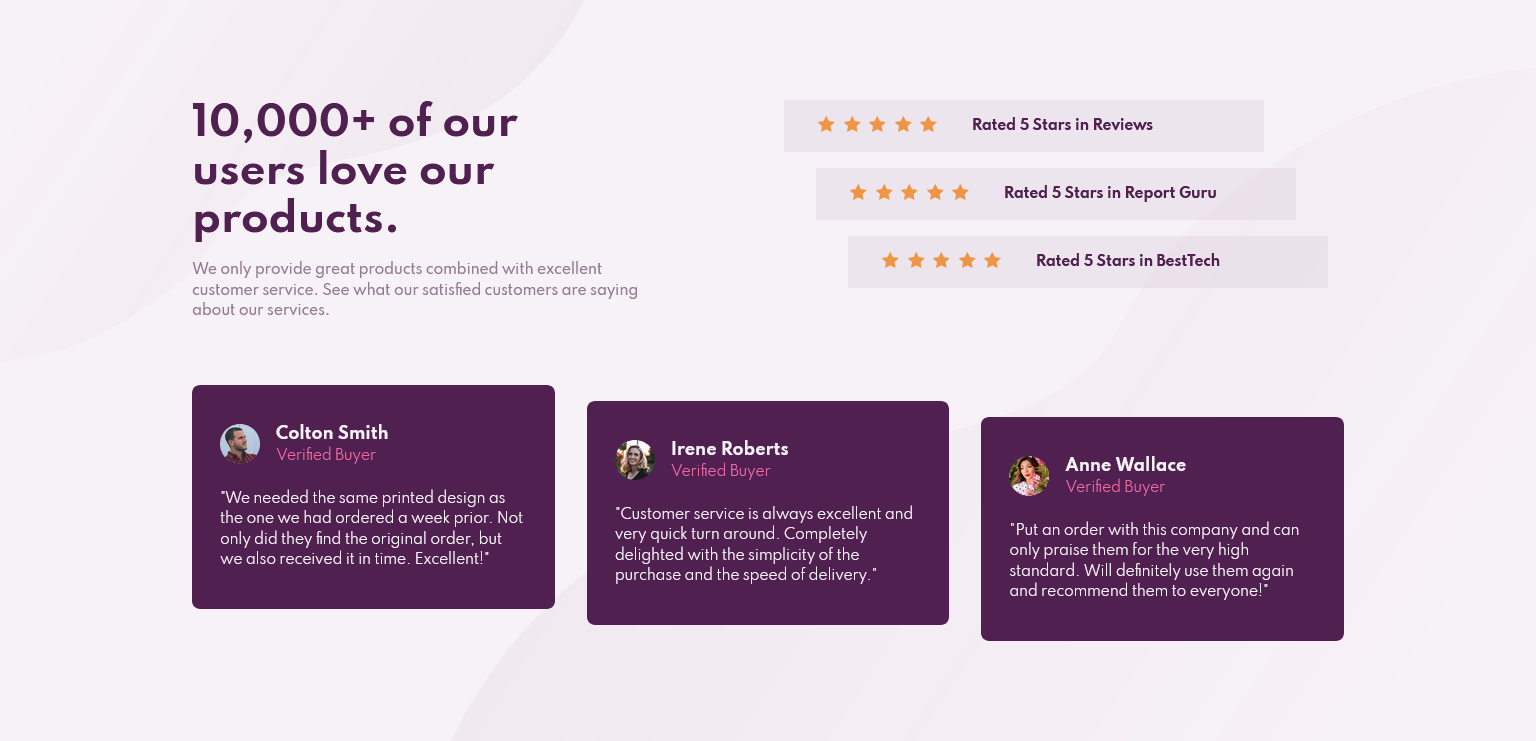
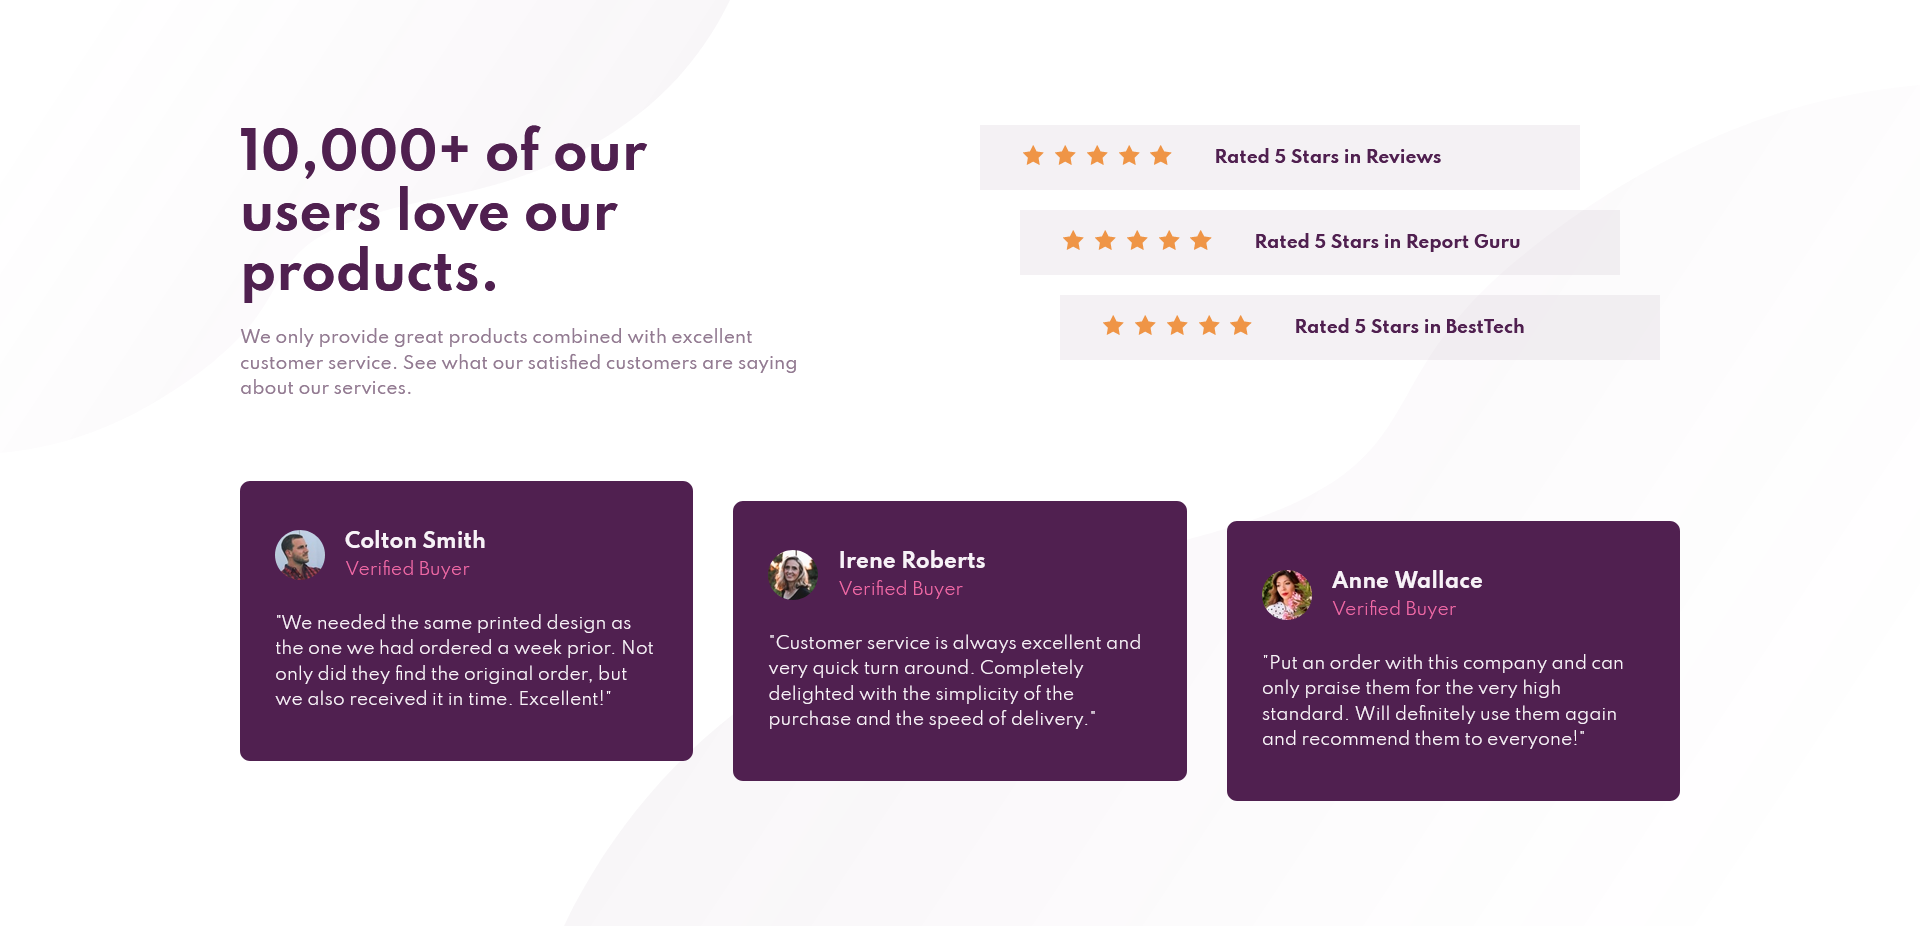
update body background color

diff --git a/css/styles.css b/css/styles.css
@@ -13,6 +13,8 @@
 	--dark-gray-magenta: hsl(303, 10%, 53%);
 	--dark-opac-magenta: hsla(302, 10%, 53%, 0.1);
 	--light-gray-magenta: hsl(300, 24%, 96%);
+
+	--white: #fff;
 }
 
 @font-face {
@@ -39,7 +41,7 @@ html {
 
 body {
 	font-family: Spartan, sans-serif;
-	background-color: var(--light-gray-magenta);
+	background-color: var(--white);
 	background-image: url("./../images/bg-pattern-top-mobile.svg"),
 		url("./../images/bg-pattern-bottom-mobile.svg");
 	background-repeat: no-repeat, no-repeat;
